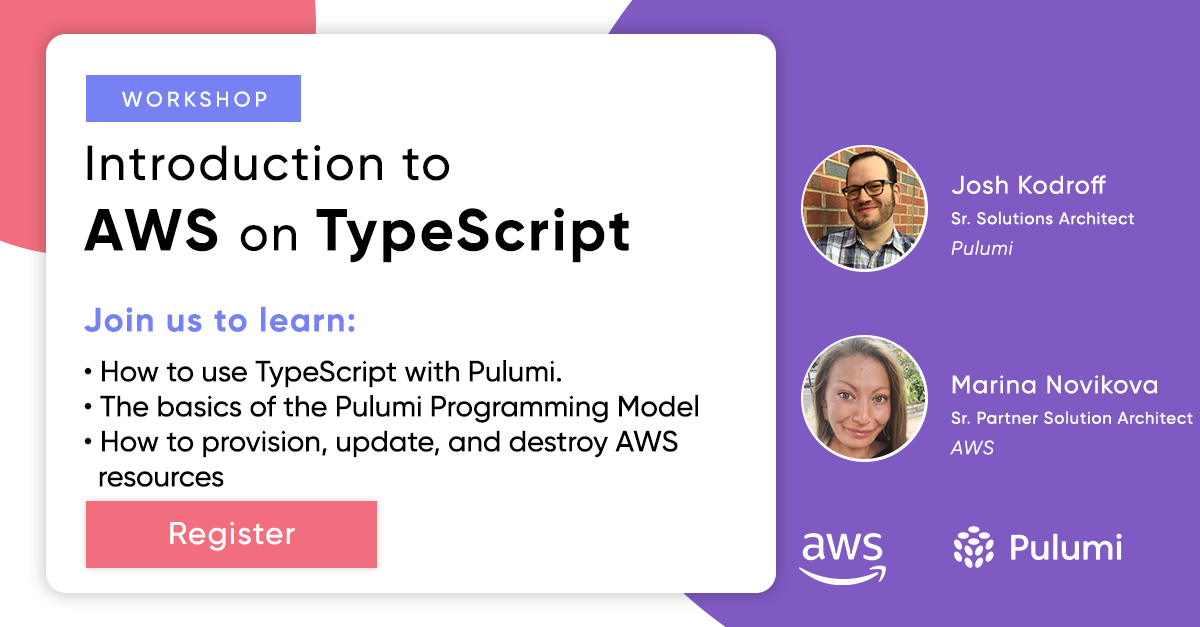
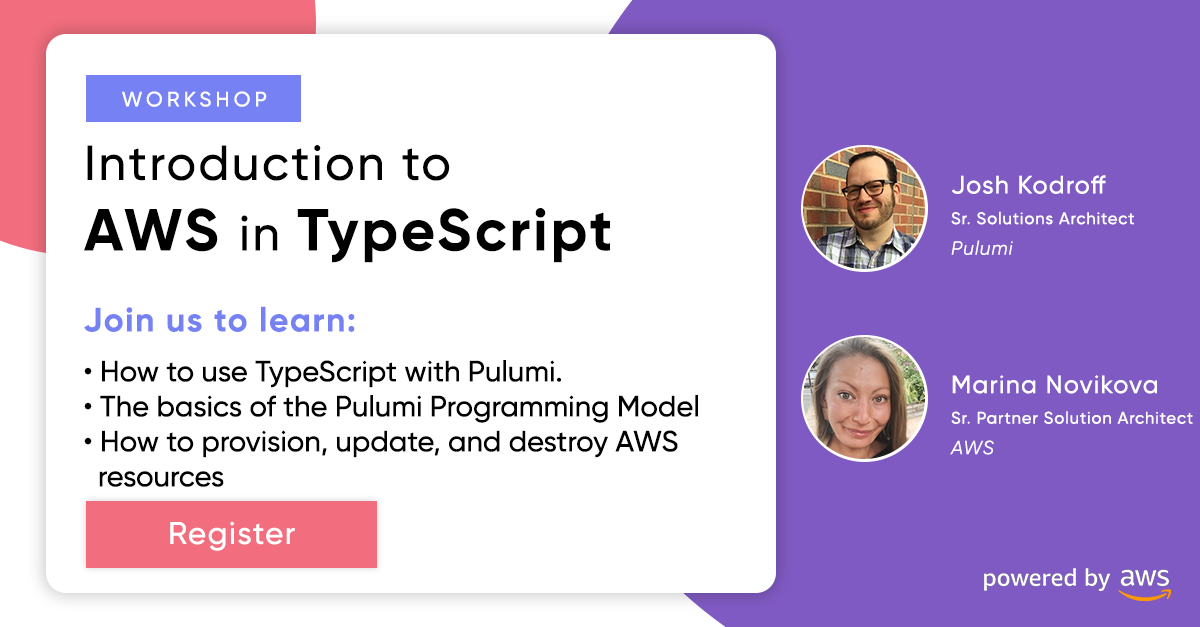
Multiple minor updates to Workshops (#3807)
* Update sara-huddleston.toml

* Adding workshop images

* forgot one image - aws

* Image for getting started with AWS

* meta for K8s on AWS

* image for getting started with GCP

* update the meta to policy as code

* update oracle's meta image

* Update themes/default/content/resources/getting-started-with-iac-aws/index.md

Changed region(s): [[0.185, 0.3333, 0.5242, 0.4242], [0.7708, 0.8485, 0.9867, 0.9697], [0.6475, 0.8485, 0.74, 0.9394]]

diff --git a/themes/default/content/resources/getting-started-with-iac-aws/index.md b/themes/default/content/resources/getting-started-with-iac-aws/index.md
@@ -3,6 +3,7 @@
 title: "Getting Started with Infrastructure as Code on AWS"
 title_tag: "Getting Started with Infrastructure as Code on AWS"
 meta_desc: "In this workshop, you will learn the fundamentals of Infrastructure as Code through a series of guided exercises using the Pulumi Cloud Engineering platform."
+meta_image: "/images/resources/get-started-aws_josh-marina.png"
 
 # A featured webinar will display first in the list.
 featured: false

diff --git a/themes/default/content/resources/getting-started-with-kubernetes-aws/index.md b/themes/default/content/resources/getting-started-with-kubernetes-aws/index.md
@@ -54,6 +54,6 @@ aws_only: true
 title: Getting Started with Kubernetes on AWS
 meta_desc: In this workshop, you will learn the fundamentals of setting up EKS
   clusters on AWS through guided exercises using Pulumi.
-meta_image: "/images/resources/kubernetes-on-aws-ringo-powered.png"
+meta_image: "/images/resources/getting-started-kubernetes-on-aws-josh-marina.png"
 url_slug: getting-started-with-kubernetes-aws
 ---

diff --git a/themes/default/content/resources/getting-started-with-infrastructure-as-code-on-oracle-cloud/index.md b/themes/default/content/resources/getting-started-with-infrastructure-as-code-on-oracle-cloud/index.md
@@ -2,6 +2,7 @@
 # Name of the webinar.
 title: "Getting started with Infrastructure as Code on Oracle Cloud"
 meta_desc: "Learn the fundamentals of Infrastructure as Code (IaC) through guided exercises using Pulumi on Oracle Cloud Infrastructure."
+meta_image: "/images/resources/getting-started-oracle-josh-eli.png"
 
 # A featured webinar will display first in the list.
 featured: false

diff --git a/themes/default/content/resources/getting-started-policy-as-code/index.md b/themes/default/content/resources/getting-started-policy-as-code/index.md
@@ -2,6 +2,7 @@
 # Name of the webinar.
 title: "Policy as Code on AWS"
 meta_desc: "In this session, we will show you how to enforce best practices by creating policies that scale from a single infrastructure stack to your entire organization"
+meta_image: "/images/resources/policy-as-code-on-aws-marina.png"
 
 aliases:
   - /webinars/getting-started-policy-as-code-2020-04-09

diff --git a/themes/default/content/resources/infrastructure-as-code-google-cloud/index.md b/themes/default/content/resources/infrastructure-as-code-google-cloud/index.md
@@ -53,5 +53,6 @@ title: Getting Started with Infrastructure as Code on Google Cloud
 meta_desc: This workshop is designed to help new users become familiar with the
   core concepts needed to effectively deploy resources on Google Cloud using
   Pulumi.
+meta_image: "/images/resources/getting-started-iac-google-josh-jay.png"
 url_slug: infrastructure-as-code-google-cloud
 ---
